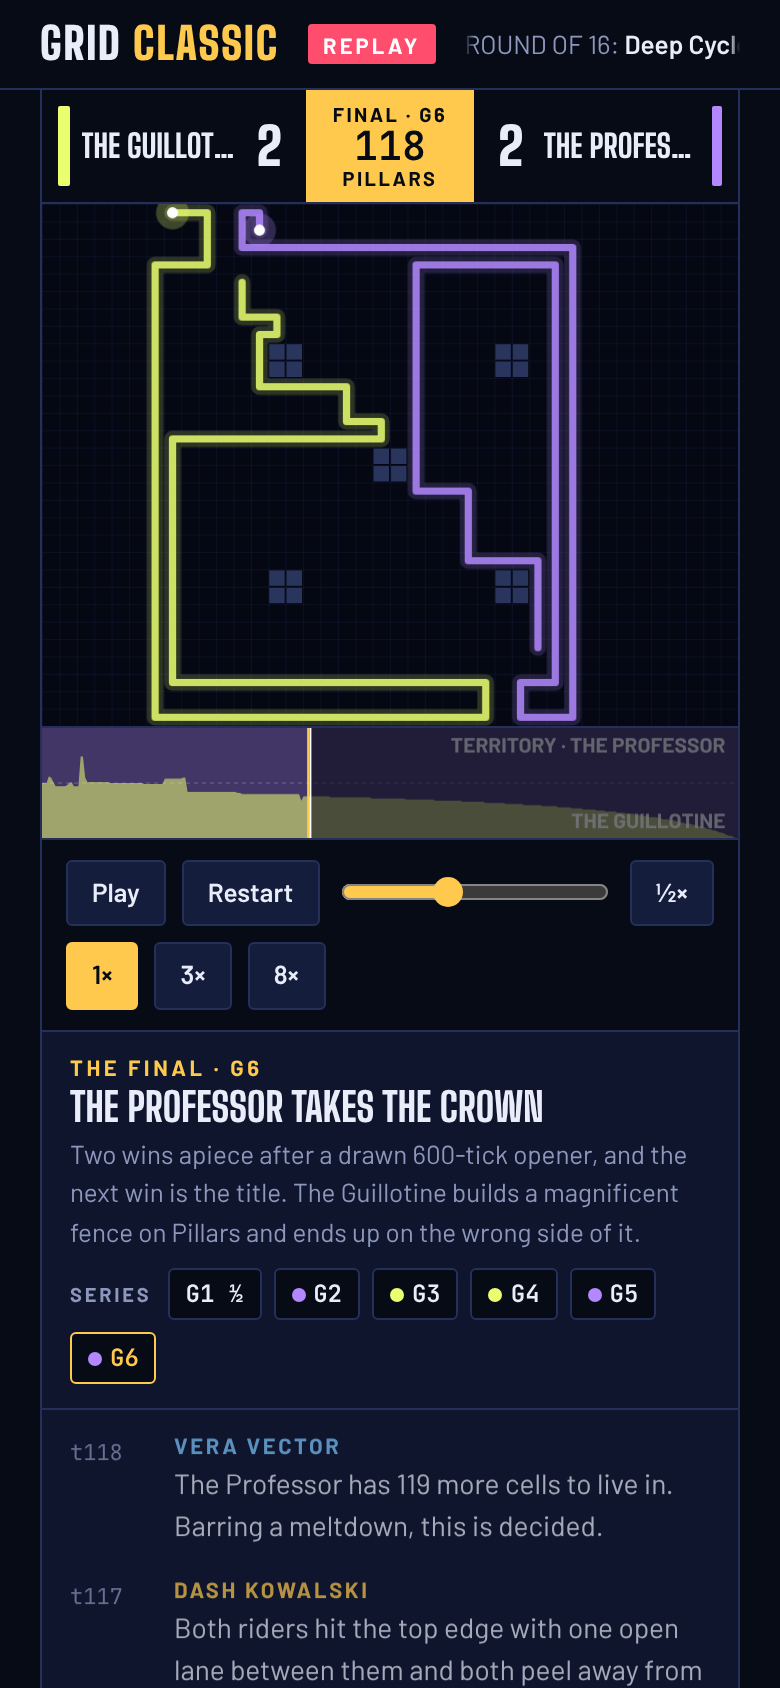
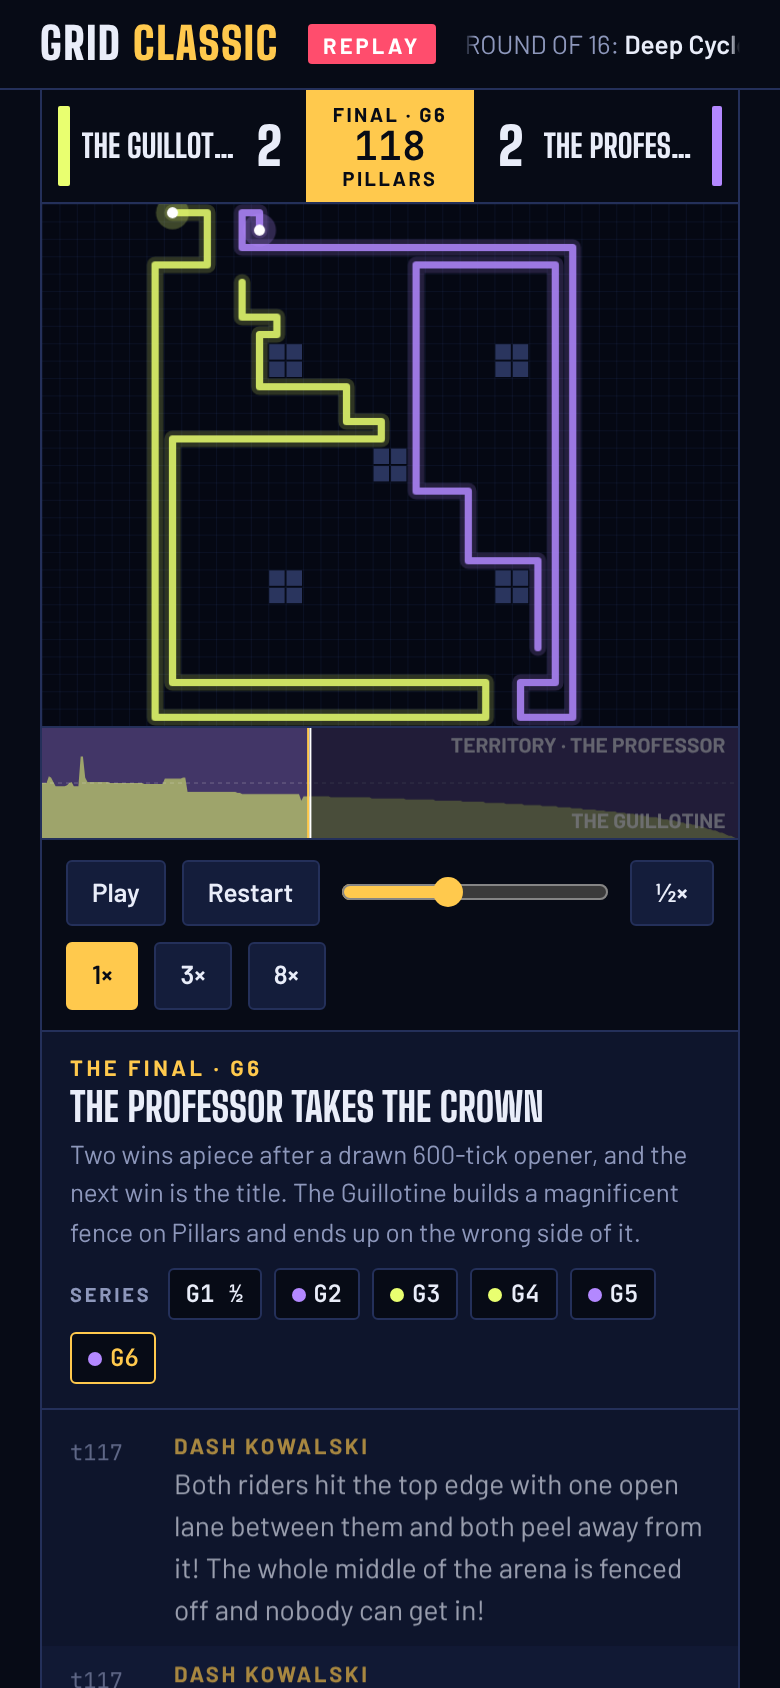
Show the final's seal as the booth now calls it in the README picture
The README's first picture is the final's deciding game a tick after
the seal, and its booth showed "The Professor has 119 more cells to
live in. Barring a meltdown, this is decided." Since the hand-written
highlights stopped getting the generated verdict (bbe9078), the page
says no such thing there: the newest line at that tick is Dash's
written call that the whole middle of the arena is fenced off. The
picture is redrawn with tools/screenshots.mjs (only the booth's lines
change) and its description says what it shows. It goes with bbe9078:
drop both or neither.

Claude-Session: https://claude.ai/code/session_01N3tHmrVtD9q2Zcak1ErX34

Changed region(s): [[0.2154, 0.8318, 0.8923, 1.0], [0.0923, 0.9858, 0.1538, 1.0], [0.0923, 0.9242, 0.1231, 0.955]]

diff --git a/README.md b/README.md
@@ -5,7 +5,7 @@
 **Sixteen light-cycle bots played a tournament, and this is the broadcast.** Each bot is a small JavaScript program with its own way of playing: hug the walls, chase, cut the other rider off, or search moves ahead. They played a 960-game round robin and a first-to-three knockout, then a seventeenth bot challenged the champion. You can watch any of the 1,023 games with commentary, ride against any bot yourself, or set two of them loose in a game nobody has seen before.
 
 <p align="center">
-  <img src="docs/phone-replay.png" alt="The deciding game of the final on the big screen: The Guillotine's lime trail and The Professor's purple one on a dark grid, the series at 2-2, a territory chart, and the commentators saying The Professor has 119 more cells to live in" width="250">
+  <img src="docs/phone-replay.png" alt="The deciding game of the final on the big screen: The Guillotine's lime trail and The Professor's purple one on a dark grid, the series at 2-2, a territory chart, and the commentators saying the whole middle of the arena is fenced off and nobody can get in" width="250">
   &nbsp;
   <img src="docs/phone-ride.png" alt="A ride against The Professor on the open grid: your white trail and its purple one, with the opponent, arena and speed menus and the Left and Right turn buttons below" width="250">
   &nbsp;
